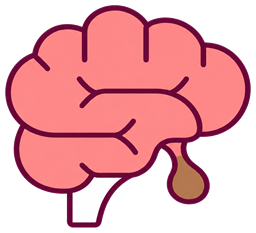
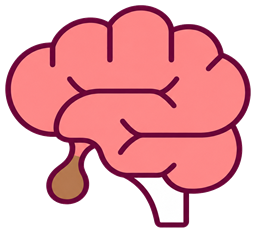
feat(pathways): mirror the brain-pituitary image (task-0024)

diff --git a/web/src/components/conditions/HormonalPathwaysView.tsx b/web/src/components/conditions/HormonalPathwaysView.tsx
@@ -327,7 +327,7 @@ interface GlyphArt {
 const ENZYME_ART: GlyphArt = { src: '/pathways/enzyme-icon.png?v=2', width: 96, height: 96, box: [12, 12, 84, 83], size: SIZE.molecular };
 const RECEPTOR_ART: GlyphArt = { src: '/pathways/receptor-icon.png?v=2', width: 96, height: 96, box: [20, 23, 76, 74], size: SIZE.molecular };
 const CELLS_ART: GlyphArt = { src: '/pathways/leydig-cells.png', width: 50, height: 50, box: [7, 6, 48, 46], size: SIZE.cell };
-const BRAIN_ART: GlyphArt = { src: '/pathways/brain-pituitary.png?v=2', width: 256, height: 233, box: [5, 5, 251, 228], size: SIZE.organ };
+const BRAIN_ART: GlyphArt = { src: '/pathways/brain-pituitary.png?v=3', width: 256, height: 233, box: [5, 5, 251, 228], size: SIZE.organ };
 
 /** Crops the artwork to its drawn content and scales that to the art's size, so padding in the file never shrinks the glyph. */
 function Glyph({ art, alt = '' }: Readonly<{ art: GlyphArt; alt?: string }>) {
